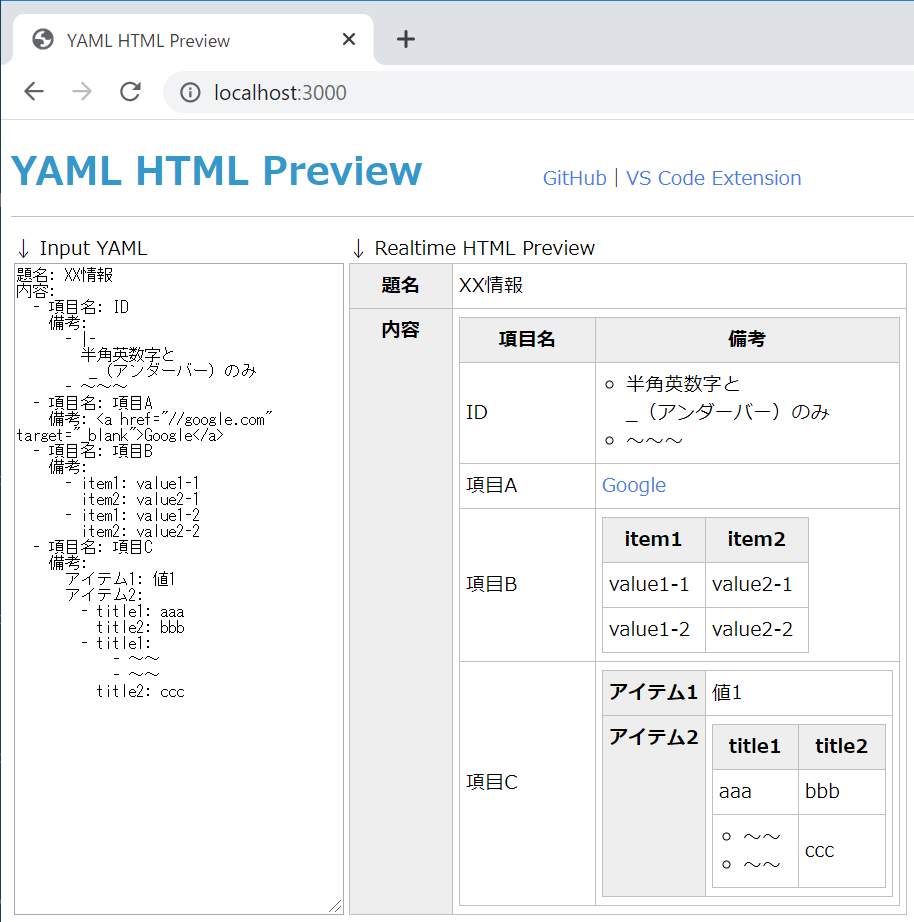
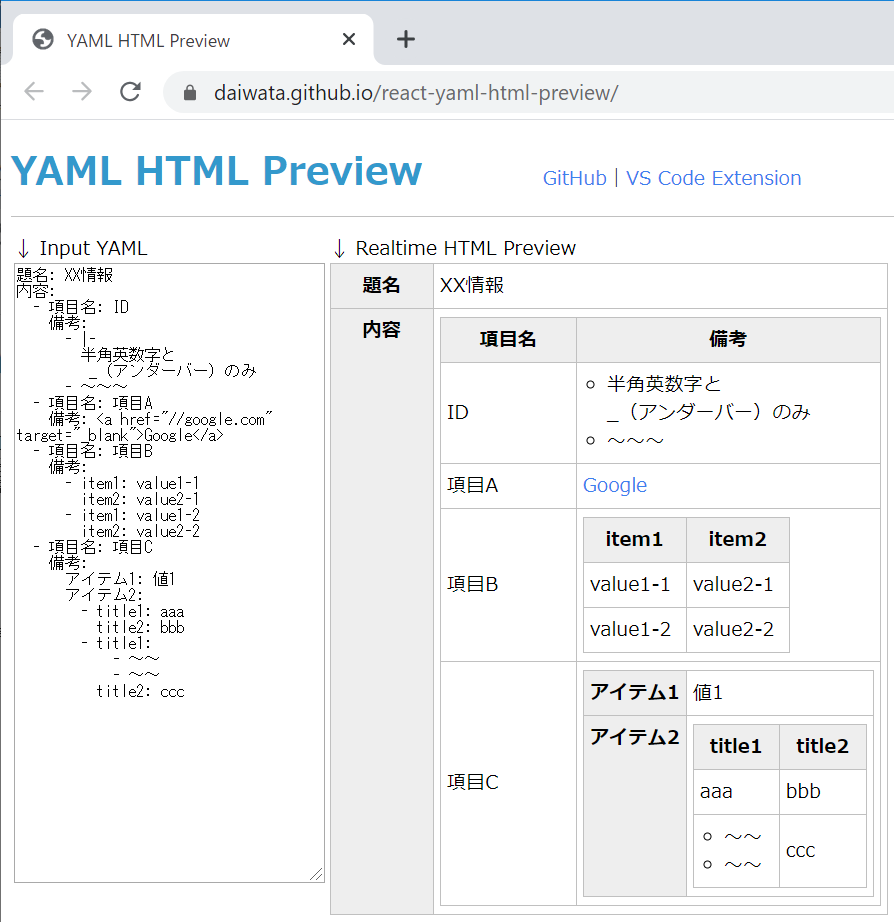
1.0.0

diff --git a/src/index.css b/src/index.css
@@ -19,7 +19,7 @@ div.doc-struct td {
     border-collapse:collapse;
 }
 div.doc-struct td.hashlist {
-    max-width:500px;
+    max-width:800px;
     word-wrap: break-word; 
     overflow:auto;
 }

diff --git a/README.md b/README.md
@@ -1,6 +1,79 @@
 # YAML HTML Preview
 
+YAML を入力すると、リアルタイムにHTMLの table 形式でプレビューすることができます。
+
+Webサービスとして公開しています。(GitHub Pages)
+- [YAML HTML Preview - github pages](https://daiwata.github.io/react-yaml-html-preview/)
+
+![](image.png)  
+<br>
+
+## ◆特徴
+
+- YAML で記述されたファイルの構造を分かりやすく描画できます。
+- 記述した YAML が意図した構造になっているかを確認できます。
+- Hash の List を一覧表形式で表現できます。  
+<br>
 
 
-![](image.png)
+## ◆描画仕様
 
+### ◎Hash
+
+Hash の部分は、左にキー、右に値を持つテーブルとして描画されます。
+
+例）
+```YAML
+item1: value1
+item2: value2
+```
+描画イメージ
+<table>
+<tr><th>item1</th><td>value1</td></tr>
+<tr><th>item2</th><td>value2</td></tr>
+</table>
+<br>
+
+### ◎HashのList
+
+Hash の List になっている部分は、一覧表形式で描画されます。
+
+例）
+```YAML
+- item1: value1-1
+  item2: value2-1
+- item1: value1-2
+  item2: value2-2
+```
+描画イメージ
+| item1    | item2    |
+| -------- | -------- |
+| value1-1 | value1-2 |
+| value2-1 | value2-2 |
+<br>
+
+## ◆注意事項
+
+YAML の形式が正しくない場合は、HTMLは描画されません。  
+<br>
+
+## ◆ローカルでの使用方法
+
+React で作成していますので、npm の知識があれば  
+Clone してローカルで使用することができます。
+
+↓ Clone して、ローカルで動作させるまでのコマンド例です。
+```
+git clone https://github.com/daiwata/react-yaml-html-preview
+cd react-yaml-html-preview
+npm install
+npm start
+```
+⇒ `http://localhost:3000/` で起動します。
+
+※ ローカルの場合、Internet Explorer では動作しません。  
+<br>
+
+## ◆ライセンス
+
+MIT
